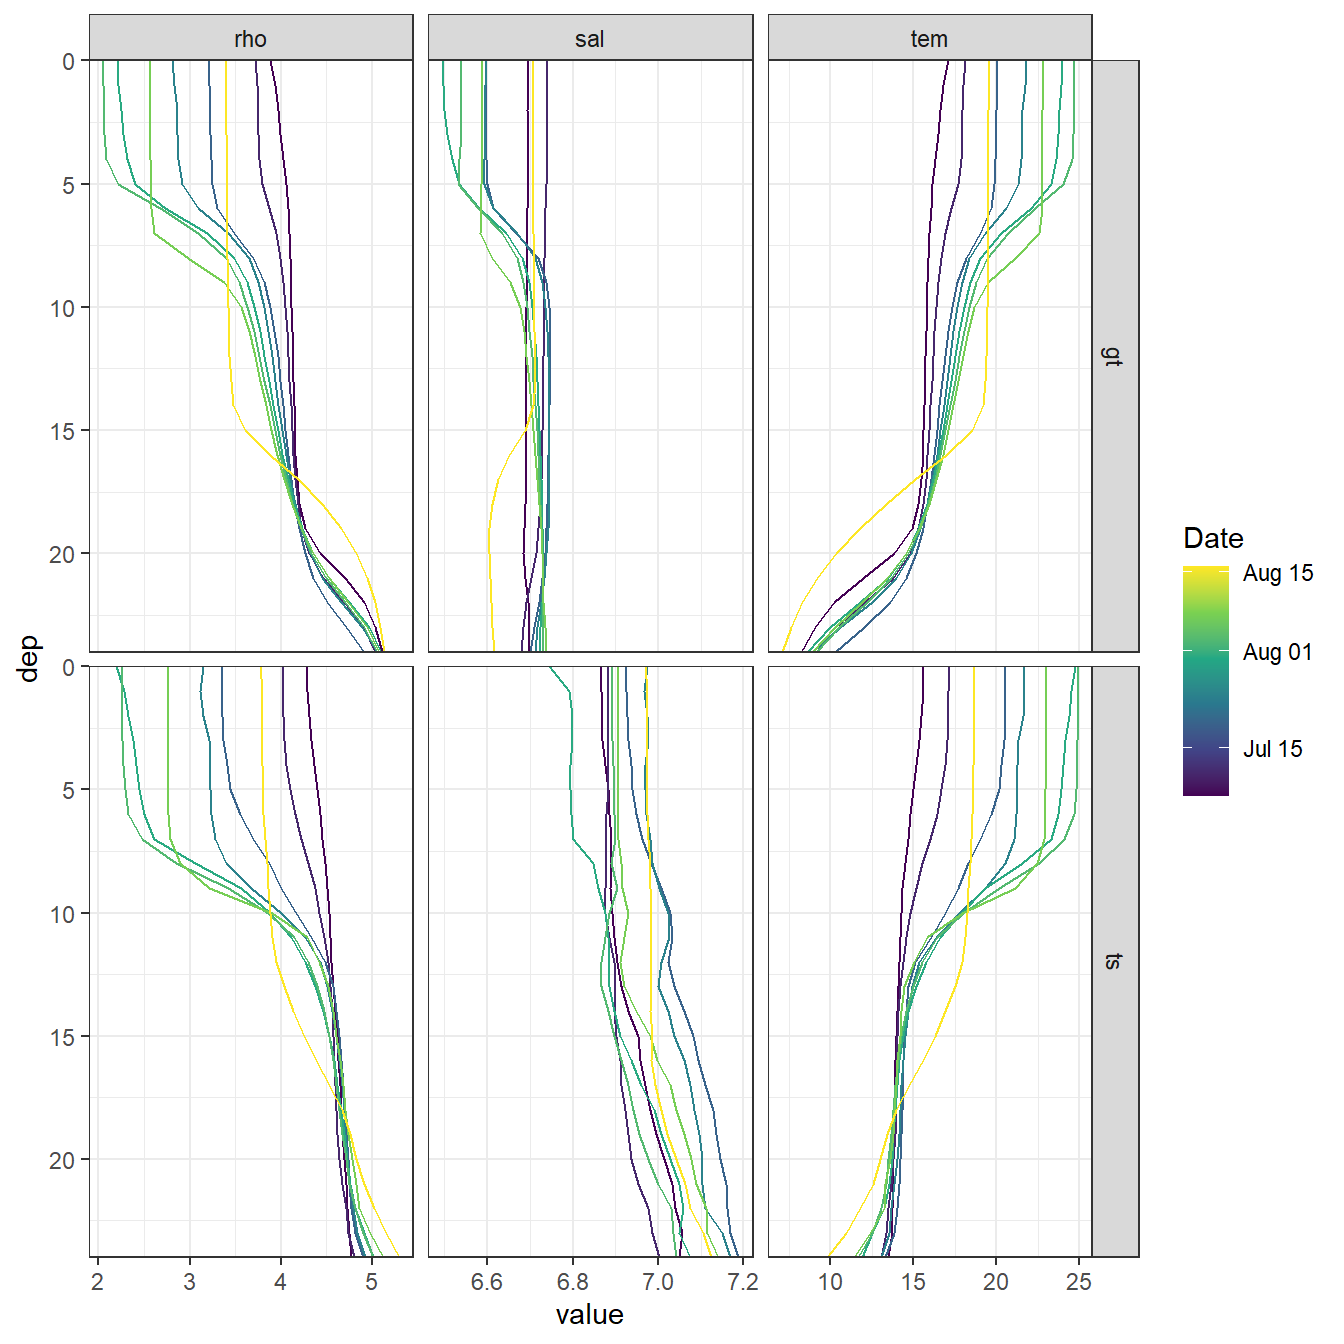
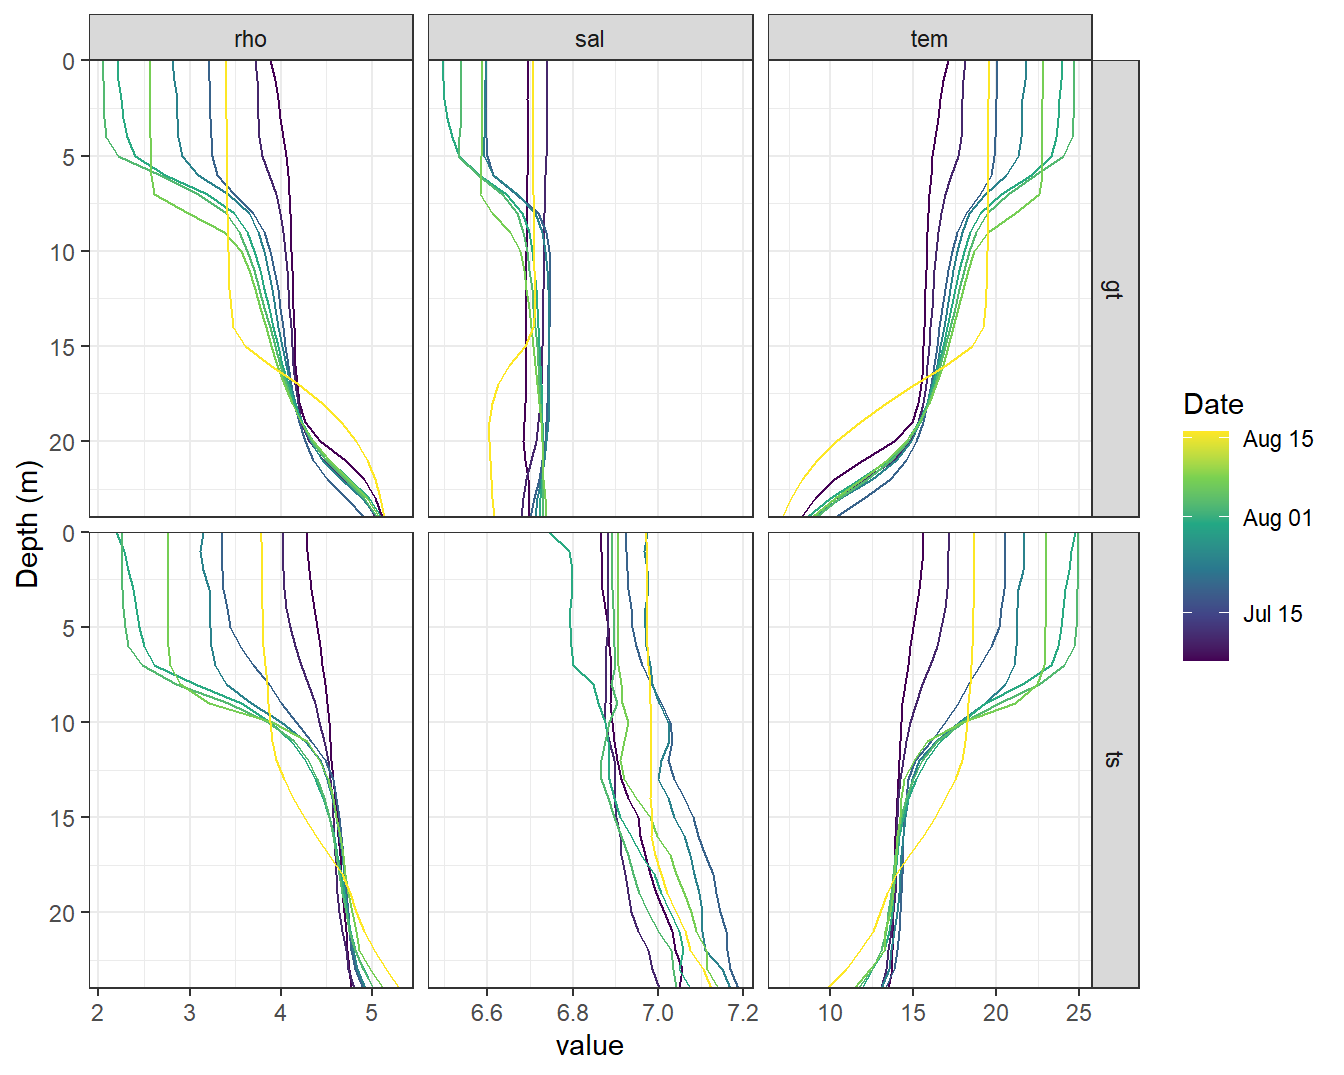
Build site.

diff --git a/docs/Finnmaid+GETM.html b/docs/Finnmaid+GETM.html
@@ -554,10 +554,10 @@ This reproducible <a href="http://rmarkdown.rstudio.com">R Markdown</a> analysis
 <div class="panel panel-default">
 <div class="panel-heading">
 <p class="panel-title">
-<a data-toggle="collapse" data-parent="#workflowr-checks" href="#strongRepositoryversionstrongahrefhttpsgithubcomjensdanielmuellerBloomSailtreeb8b65b12035b30d668f6273f0af1c2079ae15f0ftargetblankb8b65b1a"> <span class="glyphicon glyphicon-ok text-success" aria-hidden="true"></span> <strong>Repository version:</strong> <a href="https://github.com/jens-daniel-mueller/BloomSail/tree/b8b65b12035b30d668f6273f0af1c2079ae15f0f" target="_blank">b8b65b1</a> </a>
+<a data-toggle="collapse" data-parent="#workflowr-checks" href="#strongRepositoryversionstrongahrefhttpsgithubcomjensdanielmuellerBloomSailtree614ab28ace52b25e8c41050ce5e1cf7d882dfd5btargetblank614ab28a"> <span class="glyphicon glyphicon-ok text-success" aria-hidden="true"></span> <strong>Repository version:</strong> <a href="https://github.com/jens-daniel-mueller/BloomSail/tree/614ab28ace52b25e8c41050ce5e1cf7d882dfd5b" target="_blank">614ab28</a> </a>
 </p>
 </div>
[2 lines of base64/hex data omitted]
 <div class="panel-body">
 <p>
 Great! You are using Git for version control. Tracking code development and connecting the code version to the results is critical for reproducibility. The version displayed above was the version of the Git repository at the time these results were generated. <br><br> Note that you need to be careful to ensure that all relevant files for the analysis have been committed to Git prior to generating the results (you can use <code>wflow_publish</code> or <code>wflow_git_commit</code>). workflowr only checks the R Markdown file, but you know if there are other scripts or data files that it depends on. Below is the status of the Git repository when the results were generated:
@@ -751,7 +751,7 @@ ts_gt_3d_long %&gt;%
              col=date_time,
              group=date_time))+
   geom_path()+
-  scale_y_reverse(expand = c(0,0))+
+  scale_y_reverse(expand = c(0,0), name=&quot;Depth (m)&quot;)+
   scale_color_viridis_c(name=&quot;Date&quot;, trans = &quot;time&quot;)+
   facet_grid(source~var, scales = &quot;free_x&quot;)</code></pre>
 <p><img src="figure/Finnmaid+GETM.Rmd/gt_ts_profiles_salt_temp_rho-1.png" width="672" style="display: block; margin: auto;" /></p>
@@ -764,9 +764,10 @@ ts_gt_3d %&gt;%
              col=date_time,
              group=date_time))+
   geom_path()+
-  scale_y_reverse(expand = c(0,0))+
+  scale_y_reverse(expand = c(0,0), name=&quot;Depth (m)&quot;)+
   scale_color_viridis_c(name=&quot;Date&quot;, trans = &quot;time&quot;)+
-  facet_grid(.~var, scales = &quot;free_x&quot;)</code></pre>
+  facet_grid(.~var, scales = &quot;free_x&quot;)+
+  labs(x=&quot;Difference GETM (gt) - Bloomsail (ts)&quot;)</code></pre>
 <p><img src="figure/Finnmaid+GETM.Rmd/gt_ts_profiles_diff_salt_temp_rho-1.png" width="672" style="display: block; margin: auto;" /></p>
 <pre class="r"><code>rm(ts_gt_3d, ts_gt_3d_long, ts_profiles_ID)</code></pre>
 </div>
